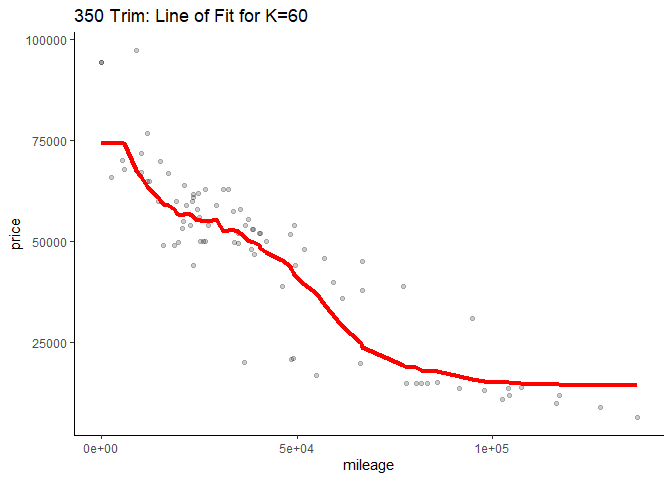
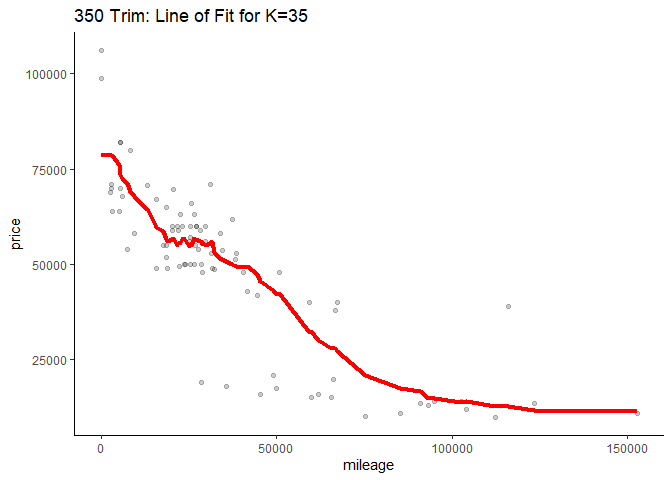
.

diff --git a/Harrison/HW1_P4.md b/Harrison/HW1_P4.md
@@ -12,12 +12,14 @@ Doing this with the 350 trims yields the following results.
 ![](HW1_P4_files/figure-markdown_strict/unnamed-chunk-2-1.png)![](HW1_P4_files/figure-markdown_strict/unnamed-chunk-2-2.png)
 
 From the 350 Trim chart of RMSE versus K, we see that the optimal K is
-60, as such the line of fit against the test data is for that K value.
+35, as such we fit the KNN model with k=35 to the test data as shown
+above.
+
 Similarly, we can find an optimal K value for the AMG trim cars.
 
 ![](HW1_P4_files/figure-markdown_strict/unnamed-chunk-3-1.png)![](HW1_P4_files/figure-markdown_strict/unnamed-chunk-3-2.png)
 
-We see that the 1SE approach yields an optimal k=35. We observe higher
+We see that the 1SE approach yields an optimal k=45. We observe higher
 optimal K values for the 350 trim as compared to the AMG. This is due to
 the fact that the number of observations for the AMG trim is much lower
 than that of the 350. Thus to earn a lower RMSE, we need a more flexible
